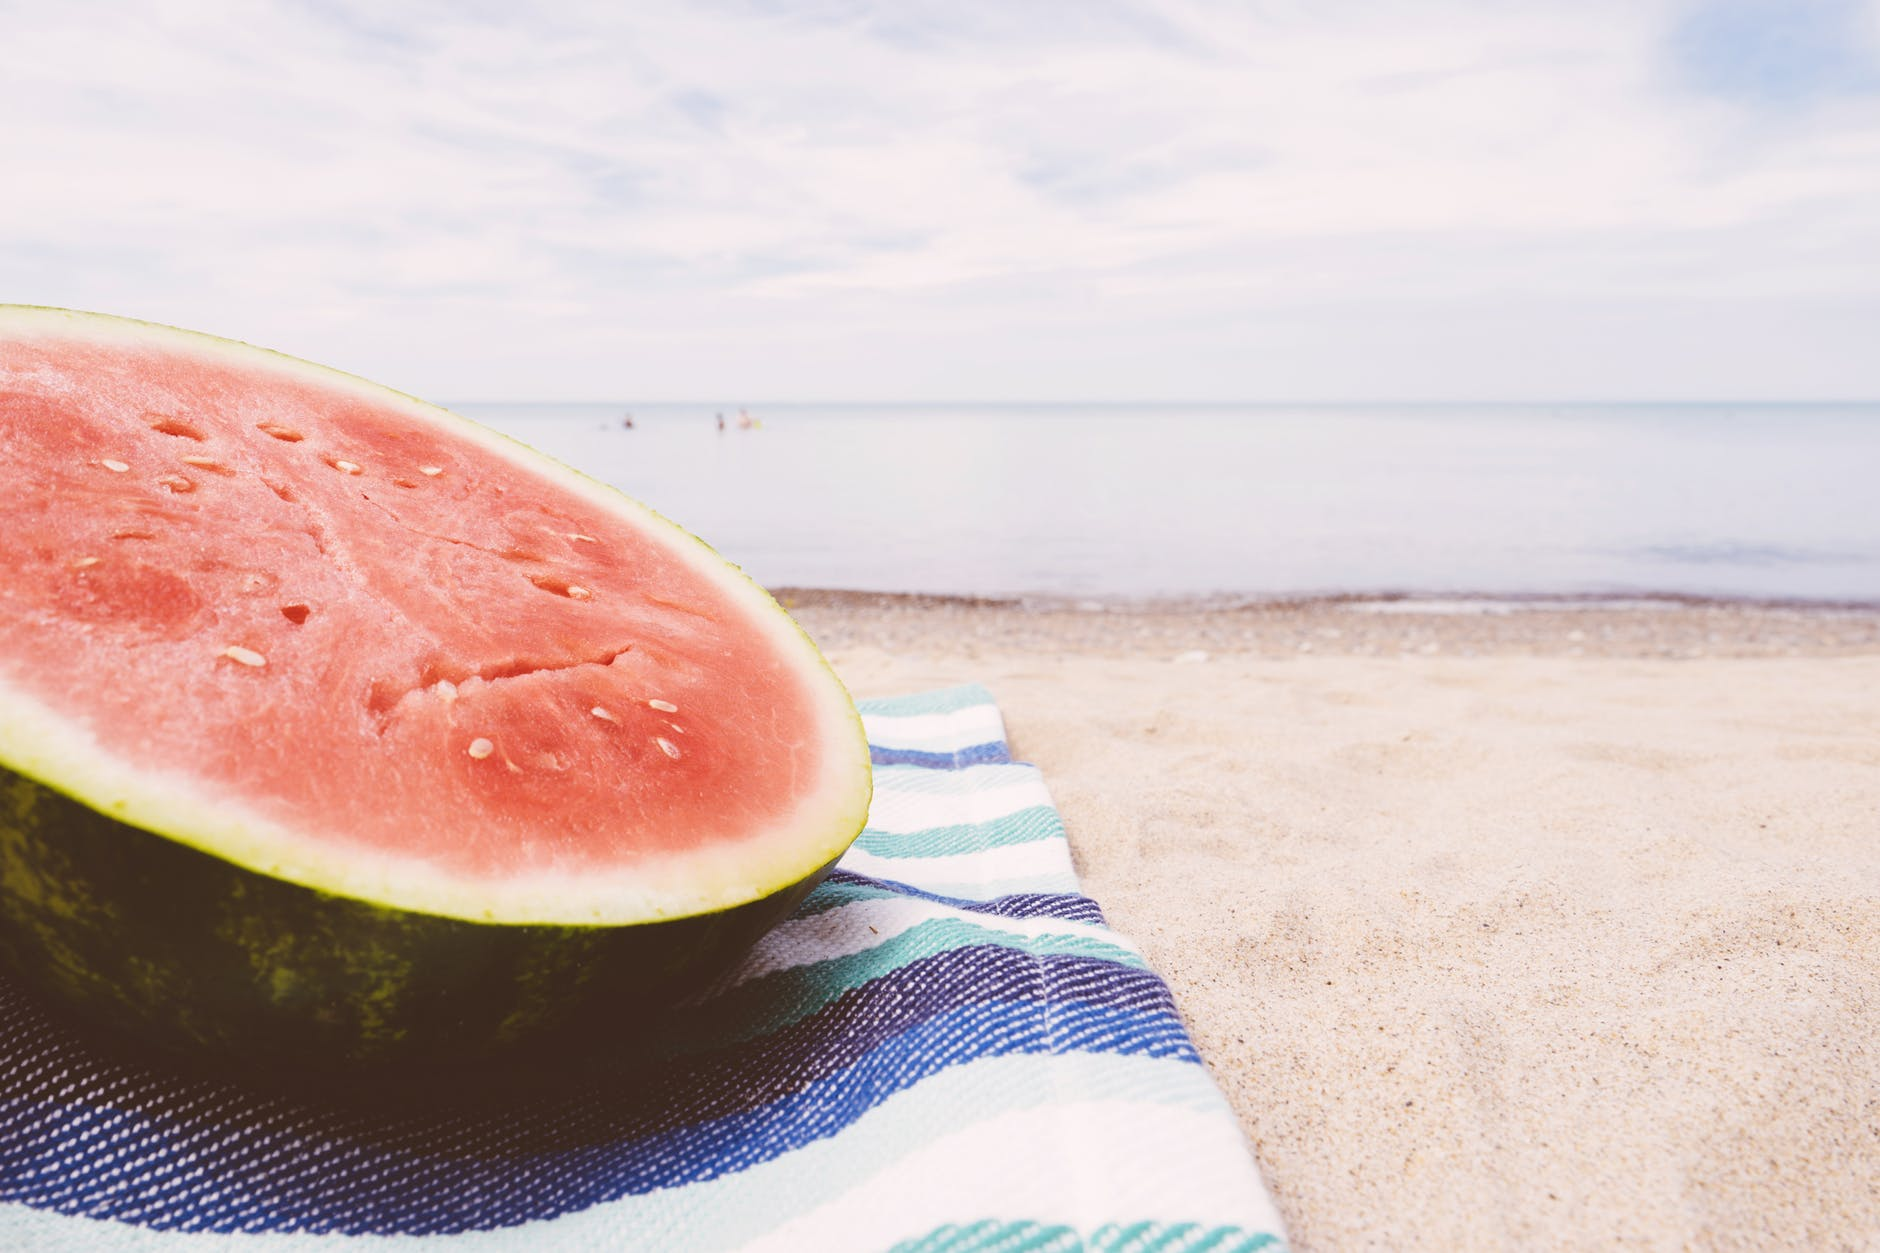
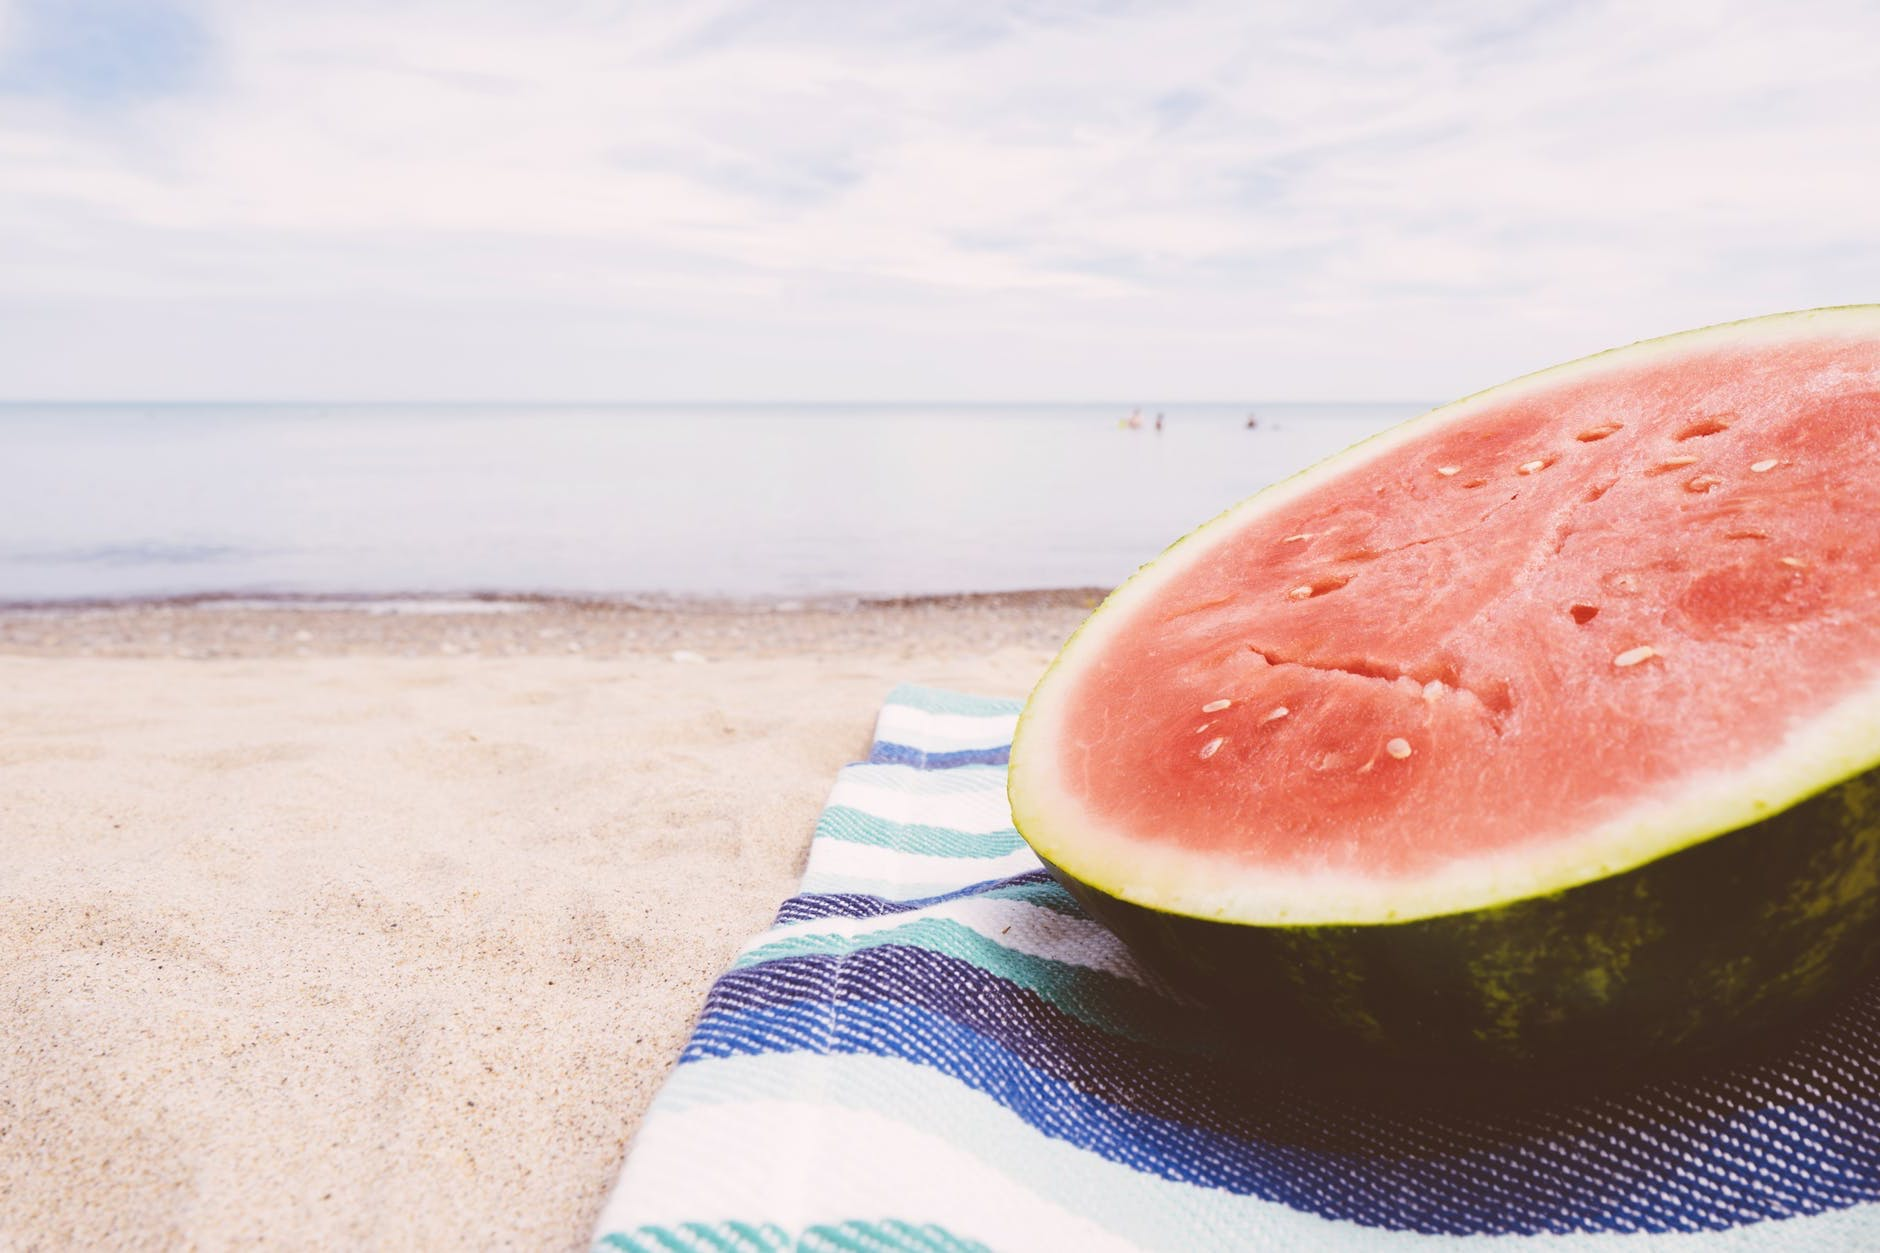
fixed margins

diff --git a/index.html b/index.html
@@ -14,32 +14,35 @@
 <body>
 
 <header class="masthead bg-primary text-black text-left">
+    
     <div class="row">
-      <div class="col-md-6">
-        <div class="introDiv">
-          <h1 class="name"><strong>Angelina DiFrancesco</strong></h1>
-          <h3>&hearts;</h3>
-          <h1>freelance web developer</h1>
-          <p>HTML | CSS | bootstrap | JavaScript | jQuery | node.js</p>
-          </div>
-      </div>
-      <div class="col-lg-3"></div>
-      <div class="col-sm-3">
-        <div class="verticalNav">
-          <ul class="nav flex-column">
-            <li class="nav-item">
-              <a class="nav-link active" href="#"><strong class="navBorder">about</strong></a>
-            </li>
-            <li class="nav-item">
-              <a class="nav-link" href="#"><strong class="navBorder">portfolio</strong></a>
-            </li>
-            <li class="nav-item">
-              <a class="nav-link" href="#"><strong class="navBorder">contact</strong></a>
-            </li>
-          </ul>
-          </div>
-      </div>
+        <div class="col-lg-9"></div>
+        <div class="col-sm-3 navPosition">
+          <div class="verticalNav">
+            <ul class="nav flex-column justify-content-center">
+              <li class="nav-item">
+                <a class="nav-link active" href="#"><strong class="navBorder">about</strong></a>
+              </li>
+              <li class="nav-item">
+                <a class="nav-link" href="#"><strong class="navBorder">portfolio</strong></a>
+              </li>
+              <li class="nav-item">
+                <a class="nav-link" href="#"><strong class="navBorder">contact</strong></a>
+              </li>
+            </ul>
+          </div>  
     </div>
+    </div>
+
+    <div class="row">
+        <div class="col-lg-12">
+            <div class="introDiv">
+              <h1 class="name"><strong>Angelina DiFrancesco</strong></h1>
+              <h1>freelance web developer</h1>
+              <p>HTML | CSS | bootstrap | JavaScript | jQuery | node.js</p>
+            </div>
+          </div>
+      </div>
 </header>
 
 <section class="aboutSection bg-secondary" id="aboutSection">
@@ -48,8 +51,8 @@
       <h2>&hearts;</h2>
 
     <div class="row">
-      <div class="col-sm-1"></div>
-      <div class="col-lg-6">
+      <div class="col-sm-2"></div>
+      <div class="col-lg-8">
             <p class="aboutParagraph">I had a short-lived, but awesome career in fashion. 
               I take my design knowledge, critical thinking, &amp; problem solving skills 
               with me as I venture into the world of programming.
@@ -59,8 +62,7 @@
               I like it when things are efficient &amp; pretty at the same time.
             </p>
       </div>
-      <div class="col-md-4 text-center">
-          <img class="img-fluid phoebe" src="assets/images/phoebe.jpg" alt="adorable cat">
+      <div class="col-md-2">
       </div>
       <div class="col-sm-1"></div>
   </div>

diff --git a/assets/css/style.css b/assets/css/style.css
@@ -7,10 +7,18 @@ body {
     font-size: 140%;
 }
 
+.bg-primary {
+    padding-top: 0%;
+    padding-bottom: 50%;
+    background-image: url("../images/watermelon-beach.jpeg") !important;
+    background-size: cover;
+    background-repeat: no-repeat;
+    background-position: left top;
+}
+
 .introDiv {
-    padding-left: 1%;
-    padding-top: 3%;
-    text-align: center;
+    padding-left: 3%;
+    text-align: left;
     font-weight: bold;
 }
 
@@ -26,15 +34,6 @@ body {
     border-radius: 5px;
 }
 
-.bg-primary {
-    padding-top: 0%;
-    padding-bottom: 50%;
-    background-image: url("../images/watermelon-beach.jpeg") !important;
-    background-size: cover;
-    background-repeat: no-repeat;
-    background-position: left top;
-}
-
 .nav-link {
     color: black !important;
     font-weight: bold;
@@ -46,7 +45,7 @@ body {
 
 .container {
     width: auto;
-    margin-right: 10%;;
+    /* margin-right: 10%;; */
     margin-top: 10%;
 }
 
